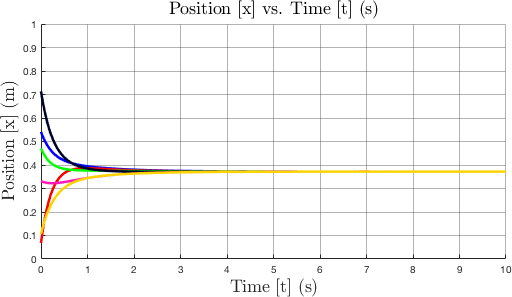
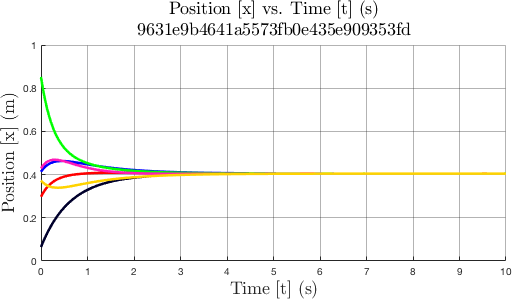
Added code to generate unique Laplacians

diff --git a/simulate.m b/simulate.m
@@ -1,4 +1,4 @@
-function [T, X] = simulate(odefun, L, t_range, L_hash, xbounds, depict, run_count, colors, fig_size, font_size)
+function [T, X] = simulate(odefun, L, t_range, L_hash, depict, xbounds, run_count, colors, fig_size, font_size)
 
     xbounds = [0, 1];
     x0 = randrange(length(L), xbounds);
@@ -16,7 +16,7 @@ function [T, X] = simulate(odefun, L, t_range, L_hash, xbounds, depict, run_coun
         fh.Position = fig_size;
         xlabel('Time [t] (s)', 'Interpreter', 'Latex', 'FontSize', font_size)
         ylabel('Position [x] (m)', 'Interpreter', 'Latex', 'FontSize', font_size)
-        title('Position [x] vs. Time [t] (s)', 'Interpreter', 'Latex', 'FontSize', font_size)
+        title({'Position [x] vs. Time [t] (s)'; L_hash}, 'Interpreter', 'Latex', 'FontSize', font_size)
         % legend(member_names, 'Location', 'northeastoutside', 'Interpreter', 'Latex', 'FontSize', font_size);
         ylim(xbounds);
         grid on;

diff --git a/train_local_consensus_basic.m b/train_local_consensus_basic.m
@@ -50,11 +50,8 @@ end
 
 % Laplacian
 L = D - A; % Generate L
-systems(sim_count).L = L;
-
 % Hash generation for L
 L_hash = GetMD5(L);
-systems(sim_count).L_hash = L_hash;
 
 % Simulation
 depict = true;
@@ -62,10 +59,12 @@ t_range = [0, 10];
 xbounds = [0, 10];
 
 for i = 1:num_runs
-    [T, X] = simulate(@local_protocol, L, t_range, L_hash, xbounds, depict, i, colors, fig_size, font_size);
+    systems(sim_count).L = L;
+    systems(sim_count).L_hash = L_hash;
+    [T, X] = simulate(@local_protocol, L, t_range, L_hash, depict, xbounds, i, colors, fig_size, font_size);
     systems(sim_count).X = X;
-    inc(sim_count);
+    sim_count = inc(sim_count);
 end
-inc(L_count);
+L_count = inc(L_count);
 
 toc

diff --git a/generate_L_undirected.m b/generate_L_undirected.m
@@ -1,0 +1,13 @@
+function L_list = generate_L_undirected(n)
+    % Source for algorithm: https://stackoverflow.com/a/35292981
+    m = n*(n-1)/2;
+    offdiags = dec2bin(0:(2^m - 1), m) - 48;
+    ignore = length(offdiags) - length(offdiags(mean(offdiags, 2) > 0, :));
+    offdiags = offdiags(mean(offdiags, 2) > 0, :);
+    L_list = zeros(n, n, 2^m - ignore);
+    [ind_i, ind_j, ~] = meshgrid(1:n, 1:n, 1:(2^m - ignore));
+    L_list(ind_i > ind_j) = offdiags.';
+    L_list = L_list + permute(L_list, [2 1 3]);
+    % Remove all Laplacians that have at least one all-zero row (i.e. at least one disconnected node)
+    L_list = L_list(:, :, all(any(L_list, 2)));
+end

diff --git a/mirror.m b/mirror.m
@@ -1,0 +1,4 @@
+function X_mirror = mirror(X)
+    %X _mirror = (X + X') - eye(size(X, 1)).*diag(X);
+    X_mirror = X + tril(X, -1).';
+end
